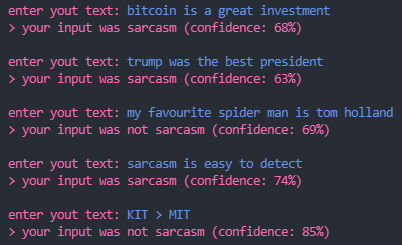
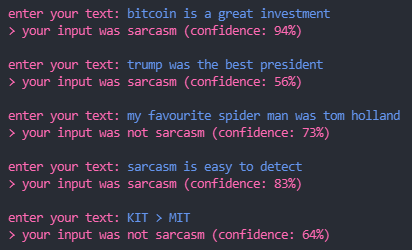
update

diff --git a/am_i_sarcastic.py b/am_i_sarcastic.py
@@ -10,7 +10,7 @@ model = load_model('models/full_only_comment') #load model
 print('done.\n')
 
 while True:
-    print('\033[95menter yout text:\033[94m ', end='')
+    print('\033[95menter your text:\033[94m ', end='')
     text = input()      # prompt for input
     if (text != ''):    # prediction crashes with empty string
         prediction = model.predict([text])[0][0]      # get prediction
